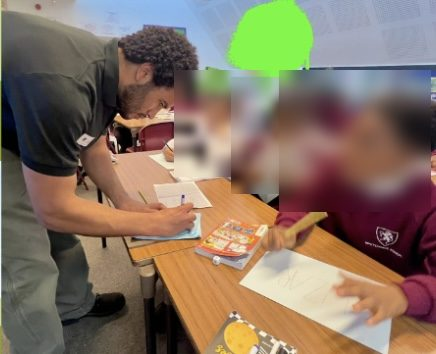
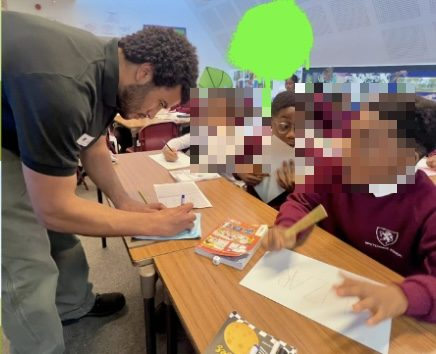
Lighter Pegasus blur; add ladder, shop-shutter & parallax artist images
- Pegasus: re-blur with small spots only on prominent student faces;
  never blur the artist; expand gallery to 7 (classroom hero, demo, desks,
  collab, spray-can, student artwork, flat-lay cover)
- Home For Artists: add artist-on-ladder photo by 'curated network'
- Home final CTA: painted shop-shutter as the banner background
- For Businesses: artist-painting in a scroll-reveal parallax frame
  under the hero (initParallax; respects reduced-motion)
- Tiger image verified present/valid (was a cache issue); cache-bust v=p

Claude-Session: https://claude.ai/code/session_0187ymftzSd1AEkdfQxQFJN3

Changed region(s): [[0.3876, 0.1864, 1.0, 0.6215]]

diff --git a/pattern-site/index.html b/pattern-site/index.html
@@ -8,7 +8,7 @@
   <link rel="preconnect" href="https://fonts.googleapis.com" />
   <link rel="preconnect" href="https://fonts.gstatic.com" crossorigin />
   <link href="https://fonts.googleapis.com/css2?family=Fraunces:opsz,wght@9..144,300..500&family=Inter:wght@400;500;600;700&display=swap" rel="stylesheet" />
-  <link rel="stylesheet" href="css/styles.css?v=20250617n" />
+  <link rel="stylesheet" href="css/styles.css?v=20250617p" />
 </head>
 <body>
   <div id="header-mount"></div>
@@ -141,7 +141,7 @@
       <div class="container">
         <div class="split">
           <div class="split__media reveal">
-            <div class="ratio ratio--3x2"><div class="artframe" data-seed="42" data-ratio="3x2"></div></div>
+            <div class="ratio ratio--4x5 photo"><img src="assets/img/artist-ladder.jpg" alt="Alexander Krige on a ladder, spray can in hand, in front of a mural" loading="lazy" /></div>
           </div>
           <div class="split__body">
             <span class="eyebrow reveal">For artists</span>
@@ -173,7 +173,7 @@
 
     <!-- ============ FINAL CTA ============ -->
     <section class="banner">
-      <div class="banner__bg artframe" data-seed="73" data-ratio="21x9"></div>
+      <img class="banner__bg" src="assets/img/shop-shutter.jpg" alt="A shop shutter painted by a Pattern artist" loading="lazy" />
       <div class="container">
         <h2 class="display reveal">Let’s create something memorable together.</h2>
         <a class="btn btn--primary reveal" data-delay="1" href="start-project.html">Start Your Project <span class="arrow">→</span></a>
@@ -182,7 +182,7 @@
   </main>
 
   <div id="footer-mount"></div>
-  <script src="js/projects-data.js?v=20250617n"></script>
-  <script src="js/main.js?v=20250617n"></script>
+  <script src="js/projects-data.js?v=20250617p"></script>
+  <script src="js/main.js?v=20250617p"></script>
 </body>
 </html>

diff --git a/pattern-site/js/projects-data.js b/pattern-site/js/projects-data.js
@@ -203,10 +203,13 @@ window.PATTERN_PROJECTS = [
       "Students were introduced to Alexander Krige's journey as an artist, the history of graffiti culture and the development of murals as a professional creative practice. The workshop included a practical graffiti lettering exercise followed by an open Q&A session.",
     outcome:
       "Students gained hands-on experience with graffiti lettering techniques while developing a broader understanding of street art, public art and creative career pathways.",
-    hero: "assets/img/projects/pegasus/demo.jpg",
+    hero: "assets/img/projects/pegasus/classroom.jpg",
     cover: "assets/img/projects/pegasus/artwork-flatlay.jpg",
     images: [
-      { src: "assets/img/projects/pegasus/demo.jpg", alt: "Alexander Krige demonstrating graffiti lettering with students during the workshop" },
+      { src: "assets/img/projects/pegasus/classroom.jpg", alt: "Alexander Krige leading the graffiti workshop with the class" },
+      { src: "assets/img/projects/pegasus/demo.jpg", alt: "Demonstrating graffiti lettering with students during the workshop" },
+      { src: "assets/img/projects/pegasus/desks.jpg", alt: "Students working on their own lettering at their desks" },
+      { src: "assets/img/projects/pegasus/collab.jpg", alt: "Students developing a collaborative graffiti piece" },
       { src: "assets/img/projects/pegasus/spray-can.jpg", alt: "Students engaging with the workshop" },
       { src: "assets/img/projects/pegasus/student-artwork.jpg", alt: "A student presenting their finished graffiti name piece" },
       { src: "assets/img/projects/pegasus/artwork-flatlay.jpg", alt: "A selection of the students' finished graffiti lettering pieces" }

diff --git a/pattern-site/js/main.js b/pattern-site/js/main.js
@@ -496,6 +496,34 @@
     });
   }
 
+  /* ---------- scroll-reveal parallax ---------- */
+  function initParallax() {
+    var els = $$("[data-parallax]");
+    if (!els.length) return;
+    var imgs = els.map(function (el) { return el.querySelector("img"); });
+    function update() {
+      var vh = window.innerHeight;
+      els.forEach(function (el, i) {
+        var img = imgs[i];
+        if (!img) return;
+        var r = el.getBoundingClientRect();
+        if (r.bottom < -200 || r.top > vh + 200) return; // skip off-screen
+        var prog = (vh - r.top) / (vh + r.height); // 0 entering, 1 leaving
+        prog = Math.max(0, Math.min(1, prog));
+        var py = (0.5 - prog) * 16; // image drifts up as you scroll down → reveals lower part
+        img.style.transform = "translateY(" + py.toFixed(2) + "%)";
+      });
+    }
+    var ticking = false;
+    function onScroll() {
+      if (ticking) return; ticking = true;
+      requestAnimationFrame(function () { update(); ticking = false; });
+    }
+    update();
+    window.addEventListener("scroll", onScroll, { passive: true });
+    window.addEventListener("resize", update);
+  }
+
   /* ---------- boot ---------- */
   function boot() {
     injectChrome();
@@ -508,6 +536,7 @@
     initForms();
     initCompare();
     initLightbox();
+    initParallax();
   }
 
   if (document.readyState === "loading") {

diff --git a/pattern-site/for-businesses.html b/pattern-site/for-businesses.html
@@ -8,7 +8,7 @@
   <link rel="preconnect" href="https://fonts.googleapis.com" />
   <link rel="preconnect" href="https://fonts.gstatic.com" crossorigin />
   <link href="https://fonts.googleapis.com/css2?family=Fraunces:opsz,wght@9..144,300..500&family=Inter:wght@400;500;600;700&display=swap" rel="stylesheet" />
-  <link rel="stylesheet" href="css/styles.css?v=20250617n" />
+  <link rel="stylesheet" href="css/styles.css?v=20250617p" />
 </head>
 <body>
   <div id="header-mount"></div>
@@ -28,7 +28,9 @@
 
     <section class="section--tight">
       <div class="container">
-        <div class="ratio ratio--16x9 reveal"><div class="artframe" data-seed="34" data-ratio="16x9"></div></div>
+        <div class="parallax-media reveal" data-parallax>
+          <img src="assets/img/artist-painting.jpg" alt="A Pattern artist spray-painting a mural" />
+        </div>
       </div>
     </section>
 
@@ -117,7 +119,7 @@
   </main>
 
   <div id="footer-mount"></div>
-  <script src="js/projects-data.js?v=20250617n"></script>
-  <script src="js/main.js?v=20250617n"></script>
+  <script src="js/projects-data.js?v=20250617p"></script>
+  <script src="js/main.js?v=20250617p"></script>
 </body>
 </html>

diff --git a/pattern-site/css/styles.css b/pattern-site/css/styles.css
@@ -576,6 +576,19 @@ body.nav-open .nav-toggle span:nth-child(3) { transform: translateY(-6.5px) rota
   padding-block: clamp(5rem, 12vw, 9rem);
 }
 .banner__bg { position: absolute; inset: 0; opacity: 0.5; }
+img.banner__bg { width: 100%; height: 100%; object-fit: cover; }
+
+/* scroll-reveal parallax media */
+.parallax-media {
+  position: relative; width: 100%; aspect-ratio: 16 / 9;
+  overflow: hidden; border-radius: var(--radius); background: var(--bg-2);
+}
+.parallax-media img {
+  position: absolute; left: 0; right: 0; top: -8%;
+  width: 100%; height: 116%; object-fit: cover;
+  will-change: transform;
+}
+@media (prefers-reduced-motion: reduce) { .parallax-media img { transform: none !important; } }
 .banner::after {
   content: ""; position: absolute; inset: 0;
   background: linear-gradient(180deg, rgba(13,13,12,0.55), rgba(13,13,12,0.82));

diff --git a/pattern-site/project.html b/pattern-site/project.html
@@ -8,13 +8,13 @@
   <link rel="preconnect" href="https://fonts.googleapis.com" />
   <link rel="preconnect" href="https://fonts.gstatic.com" crossorigin />
   <link href="https://fonts.googleapis.com/css2?family=Fraunces:opsz,wght@9..144,300..500&family=Inter:wght@400;500;600;700&display=swap" rel="stylesheet" />
-  <link rel="stylesheet" href="css/styles.css?v=20250617n" />
+  <link rel="stylesheet" href="css/styles.css?v=20250617p" />
 </head>
 <body>
   <div id="header-mount"></div>
   <main id="case-study"></main>
   <div id="footer-mount"></div>
-  <script src="js/projects-data.js?v=20250617n"></script>
-  <script src="js/main.js?v=20250617n"></script>
+  <script src="js/projects-data.js?v=20250617p"></script>
+  <script src="js/main.js?v=20250617p"></script>
 </body>
 </html>

diff --git a/pattern-site/about.html b/pattern-site/about.html
@@ -8,7 +8,7 @@
   <link rel="preconnect" href="https://fonts.googleapis.com" />
   <link rel="preconnect" href="https://fonts.gstatic.com" crossorigin />
   <link href="https://fonts.googleapis.com/css2?family=Fraunces:opsz,wght@9..144,300..500&family=Inter:wght@400;500;600;700&display=swap" rel="stylesheet" />
-  <link rel="stylesheet" href="css/styles.css?v=20250617n" />
+  <link rel="stylesheet" href="css/styles.css?v=20250617p" />
 </head>
 <body>
   <div id="header-mount"></div>
@@ -135,7 +135,7 @@
   </main>
 
   <div id="footer-mount"></div>
-  <script src="js/projects-data.js?v=20250617n"></script>
-  <script src="js/main.js?v=20250617n"></script>
+  <script src="js/projects-data.js?v=20250617p"></script>
+  <script src="js/main.js?v=20250617p"></script>
 </body>
 </html>

diff --git a/pattern-site/artist-application.html b/pattern-site/artist-application.html
@@ -8,7 +8,7 @@
   <link rel="preconnect" href="https://fonts.googleapis.com" />
   <link rel="preconnect" href="https://fonts.gstatic.com" crossorigin />
   <link href="https://fonts.googleapis.com/css2?family=Fraunces:opsz,wght@9..144,300..500&family=Inter:wght@400;500;600;700&display=swap" rel="stylesheet" />
-  <link rel="stylesheet" href="css/styles.css?v=20250617n" />
+  <link rel="stylesheet" href="css/styles.css?v=20250617p" />
 </head>
 <body>
   <div id="header-mount"></div>
@@ -143,7 +143,7 @@
   </main>
 
   <div id="footer-mount"></div>
-  <script src="js/projects-data.js?v=20250617n"></script>
-  <script src="js/main.js?v=20250617n"></script>
+  <script src="js/projects-data.js?v=20250617p"></script>
+  <script src="js/main.js?v=20250617p"></script>
 </body>
 </html>

diff --git a/pattern-site/for-artists.html b/pattern-site/for-artists.html
@@ -8,7 +8,7 @@
   <link rel="preconnect" href="https://fonts.googleapis.com" />
   <link rel="preconnect" href="https://fonts.gstatic.com" crossorigin />
   <link href="https://fonts.googleapis.com/css2?family=Fraunces:opsz,wght@9..144,300..500&family=Inter:wght@400;500;600;700&display=swap" rel="stylesheet" />
-  <link rel="stylesheet" href="css/styles.css?v=20250617n" />
+  <link rel="stylesheet" href="css/styles.css?v=20250617p" />
 </head>
 <body>
   <div id="header-mount"></div>
@@ -156,7 +156,7 @@
   </main>
 
   <div id="footer-mount"></div>
-  <script src="js/projects-data.js?v=20250617n"></script>
-  <script src="js/main.js?v=20250617n"></script>
+  <script src="js/projects-data.js?v=20250617p"></script>
+  <script src="js/main.js?v=20250617p"></script>
 </body>
 </html>

diff --git a/pattern-site/start-project.html b/pattern-site/start-project.html
@@ -8,7 +8,7 @@
   <link rel="preconnect" href="https://fonts.googleapis.com" />
   <link rel="preconnect" href="https://fonts.gstatic.com" crossorigin />
   <link href="https://fonts.googleapis.com/css2?family=Fraunces:opsz,wght@9..144,300..500&family=Inter:wght@400;500;600;700&display=swap" rel="stylesheet" />
-  <link rel="stylesheet" href="css/styles.css?v=20250617n" />
+  <link rel="stylesheet" href="css/styles.css?v=20250617p" />
 </head>
 <body>
   <div id="header-mount"></div>
@@ -134,7 +134,7 @@
   </main>
 
   <div id="footer-mount"></div>
-  <script src="js/projects-data.js?v=20250617n"></script>
-  <script src="js/main.js?v=20250617n"></script>
+  <script src="js/projects-data.js?v=20250617p"></script>
+  <script src="js/main.js?v=20250617p"></script>
 </body>
 </html>

diff --git a/pattern-site/contact.html b/pattern-site/contact.html
@@ -8,7 +8,7 @@
   <link rel="preconnect" href="https://fonts.googleapis.com" />
   <link rel="preconnect" href="https://fonts.gstatic.com" crossorigin />
   <link href="https://fonts.googleapis.com/css2?family=Fraunces:opsz,wght@9..144,300..500&family=Inter:wght@400;500;600;700&display=swap" rel="stylesheet" />
-  <link rel="stylesheet" href="css/styles.css?v=20250617n" />
+  <link rel="stylesheet" href="css/styles.css?v=20250617p" />
 </head>
 <body>
   <div id="header-mount"></div>
@@ -57,7 +57,7 @@
   </main>
 
   <div id="footer-mount"></div>
-  <script src="js/projects-data.js?v=20250617n"></script>
-  <script src="js/main.js?v=20250617n"></script>
+  <script src="js/projects-data.js?v=20250617p"></script>
+  <script src="js/main.js?v=20250617p"></script>
 </body>
 </html>

diff --git a/pattern-site/projects.html b/pattern-site/projects.html
@@ -8,7 +8,7 @@
   <link rel="preconnect" href="https://fonts.googleapis.com" />
   <link rel="preconnect" href="https://fonts.gstatic.com" crossorigin />
   <link href="https://fonts.googleapis.com/css2?family=Fraunces:opsz,wght@9..144,300..500&family=Inter:wght@400;500;600;700&display=swap" rel="stylesheet" />
-  <link rel="stylesheet" href="css/styles.css?v=20250617n" />
+  <link rel="stylesheet" href="css/styles.css?v=20250617p" />
 </head>
 <body>
   <div id="header-mount"></div>
@@ -77,7 +77,7 @@
   </main>
 
   <div id="footer-mount"></div>
-  <script src="js/projects-data.js?v=20250617n"></script>
-  <script src="js/main.js?v=20250617n"></script>
+  <script src="js/projects-data.js?v=20250617p"></script>
+  <script src="js/main.js?v=20250617p"></script>
 </body>
 </html>
